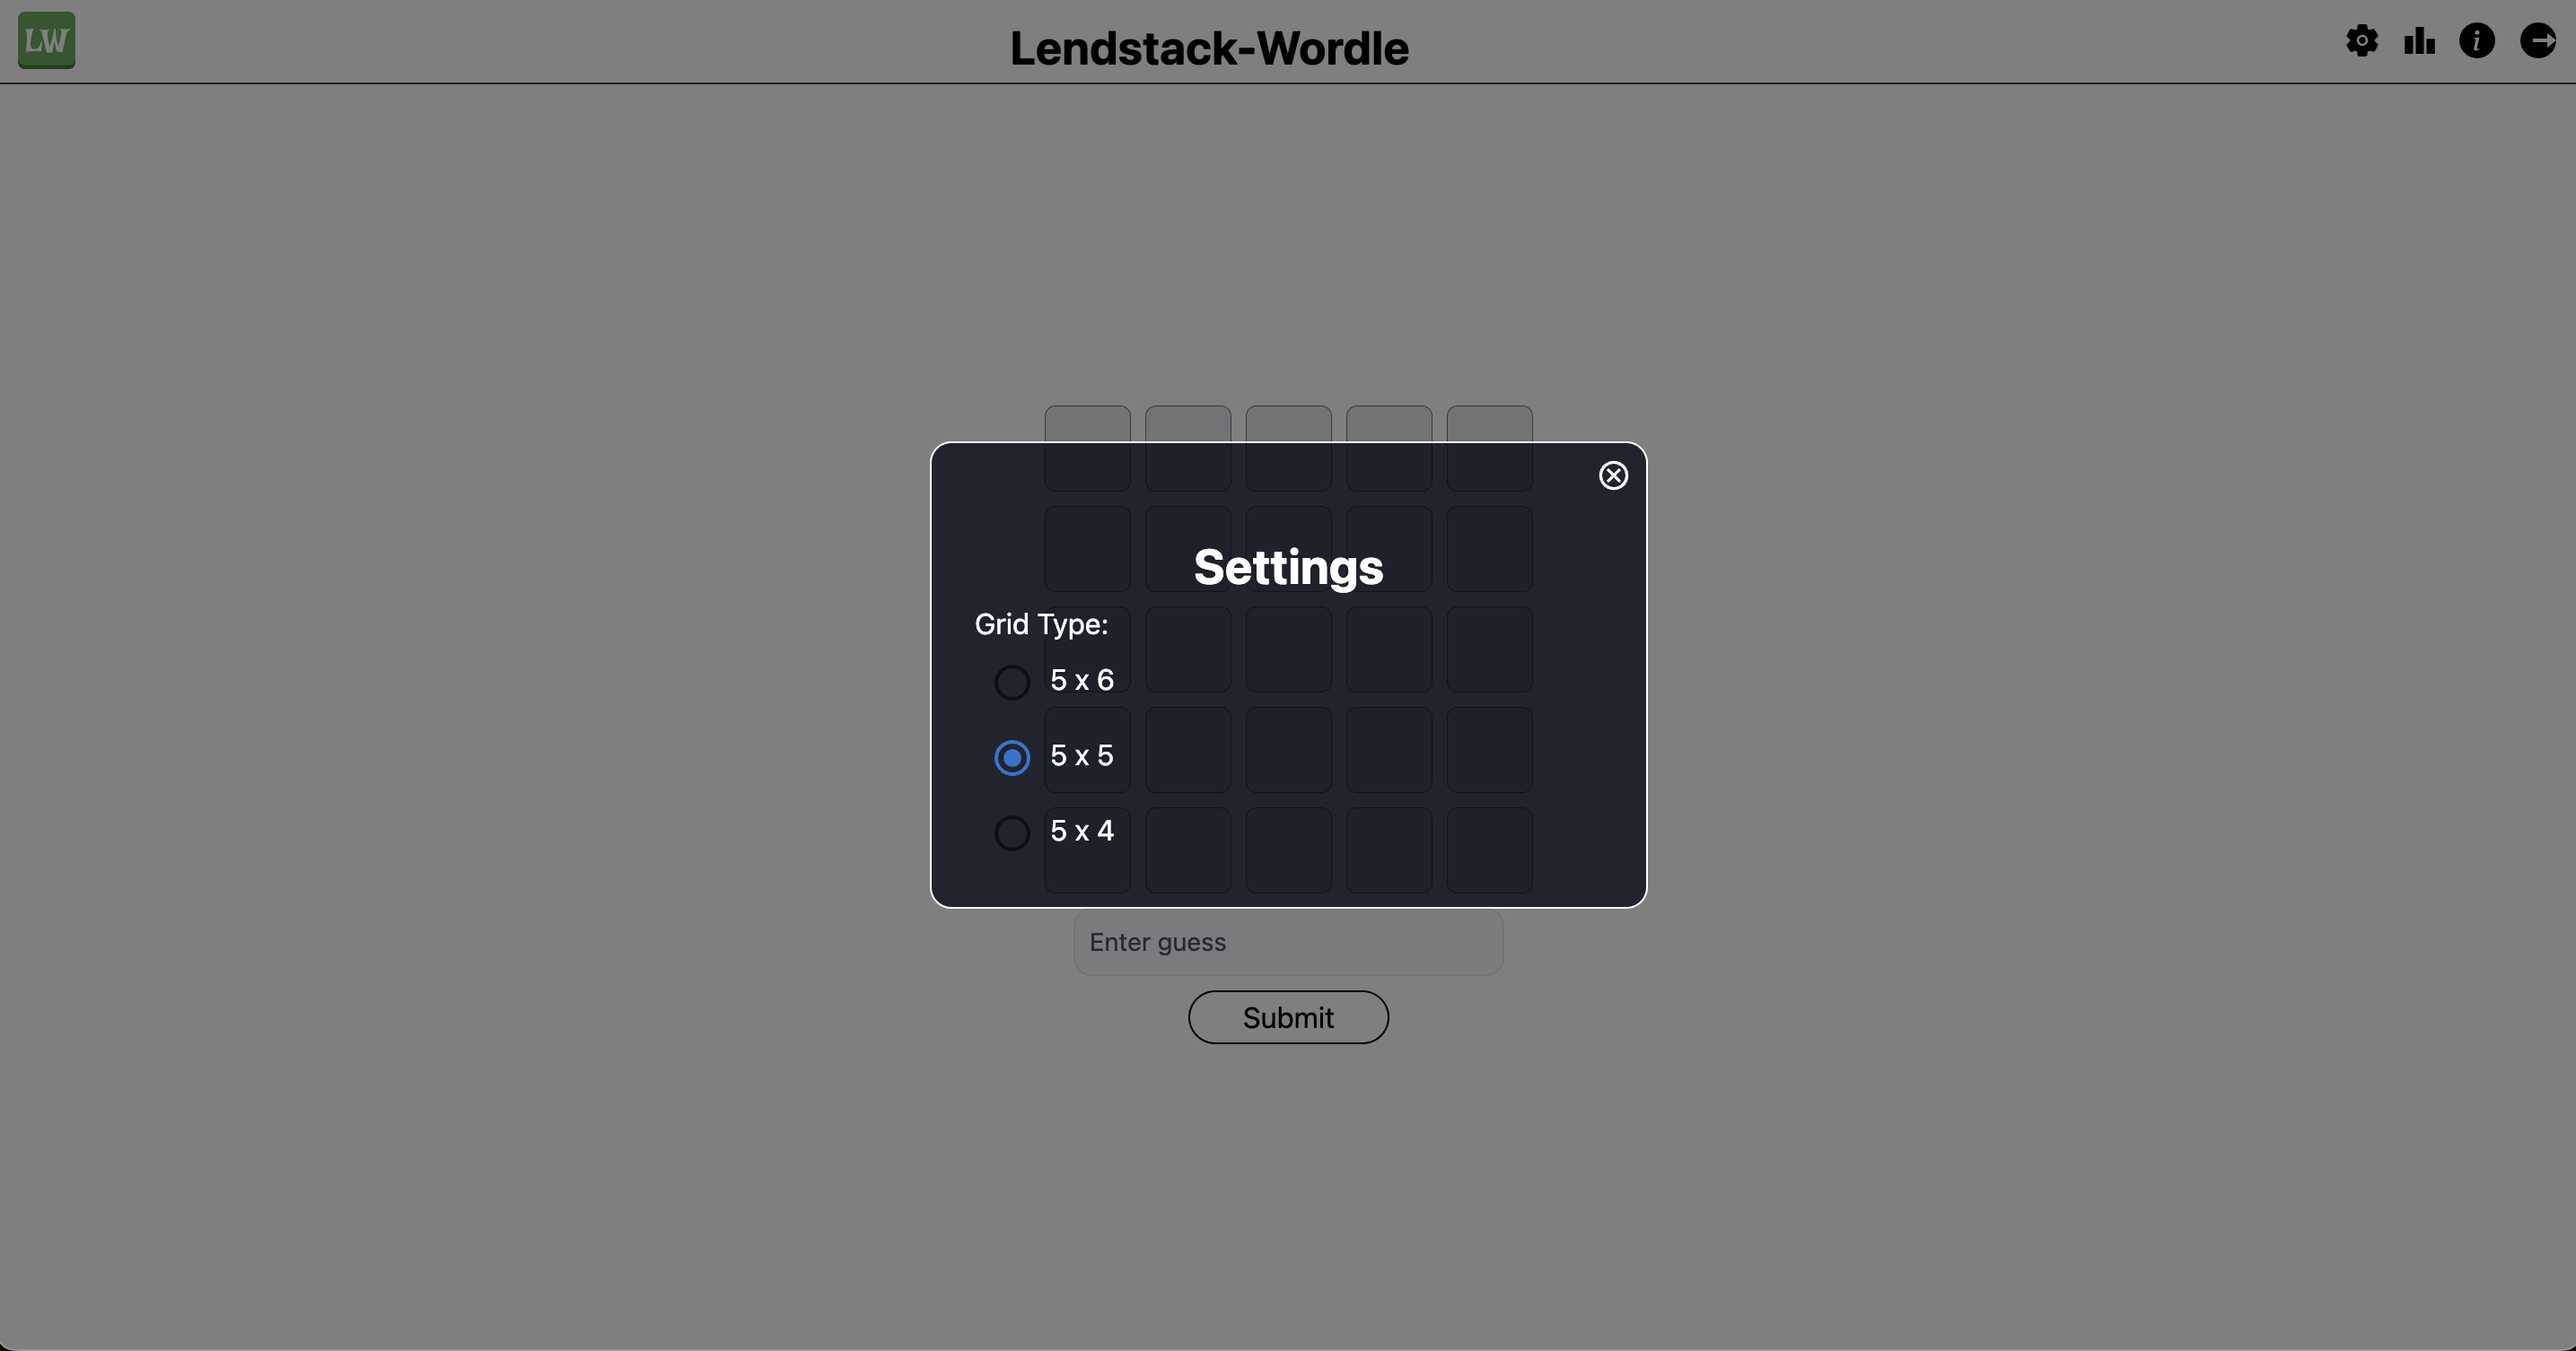
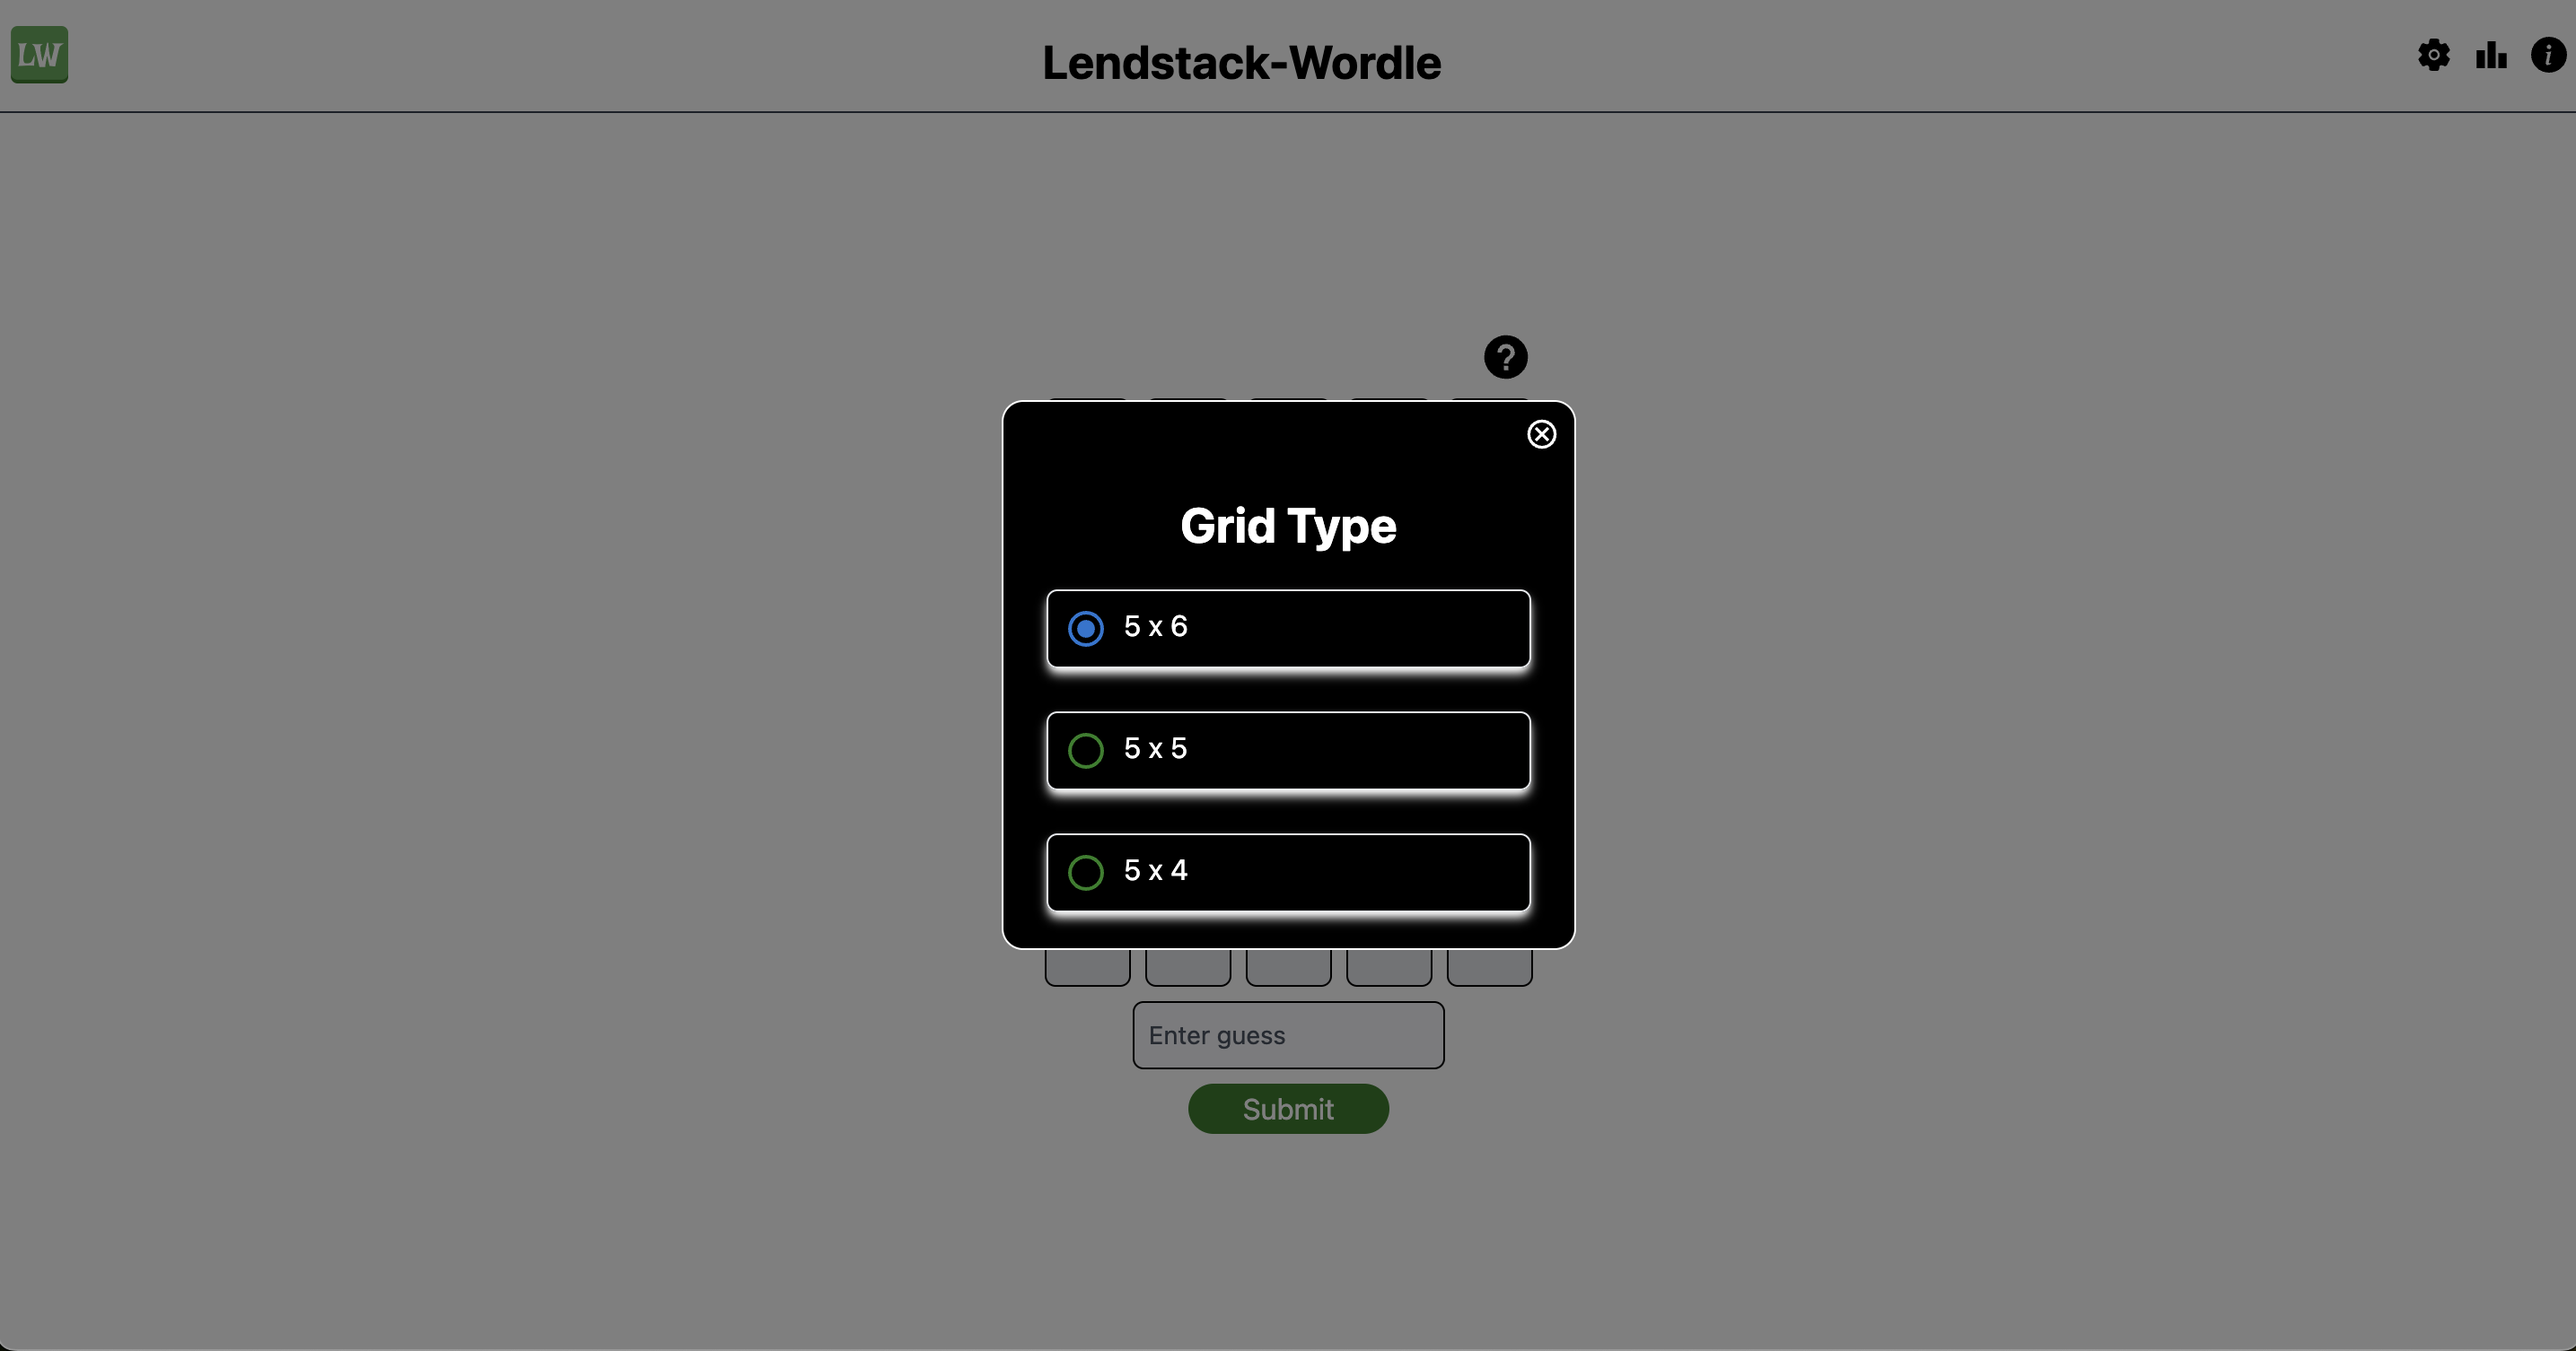
add hint alert + fix design ather alert

diff --git a/src/components/AlertSettings.tsx b/src/components/AlertSettings.tsx
@@ -13,15 +13,14 @@ export default function AlertSettings() {
   const [open, setOpen] = useState(false);
 
   const [selectedValue, setSelectedValue] = React.useState("6");
-  const handleChange = (event: React.ChangeEvent<HTMLInputElement>) => {
-    setSelectedValue(event.target.value);
+  const handleChange = (event: string) => {
+    setSelectedValue(event);
     setData((preData) => {
       let newData = { ...preData };
-      newData.gridType = Number(event.target.value);
+      newData.gridType = Number(event);
       newData.numAttempts = 0;
-      (newData.guesses = Array.from(
-        { length: Number(event.target.value) },
-        () => "*".repeat(lengthWord)
+      (newData.guesses = Array.from({ length: Number(event) }, () =>
+        "*".repeat(lengthWord)
       )),
         encryptData(newData);
       return newData;
@@ -50,7 +49,8 @@ export default function AlertSettings() {
         open={open}
         onClose={() => setOpen(false)}
       >
-        <div className="bg-[#010611be]  rounded-xl border-[1px] border-white  sm:w-[15rem]">
+        {/* 010611be */}
+        <div className="bg-[#000000]  rounded-xl border-[1px] border-white w-[20rem]  ">
           <div
             className="flex flex-row justify-end mt-2 mr-2 text-lg"
             onClick={() => {
@@ -66,30 +66,52 @@ export default function AlertSettings() {
           <DialogContent>
             <div className="flex flex-col text-white">
               <h1 className="text-[27px] flex items-center justify-center mb-0 font-bold ">
-                Settings
+                Grid Type
               </h1>
-              <div>
-                <p className="text-white"> Grid Type:</p>
-                <div>
+
+              <div className="flex flex-col gap-6 mt-4 ">
+                <div
+                  className="border rounded-md shadow-md shadow-white cursor-pointer"
+                  onClick={() => {
+                    handleChange("6");
+                  }}
+                >
                   <Radio
+                    sx={{
+                      color: "#227F22",
+                    }}
                     checked={selectedValue === "6"}
-                    onChange={handleChange}
                     value="6"
                   />
                   <label>{lengthWord} x 6</label>
                 </div>
-                <div>
+
+                <div
+                  className="border rounded-md shadow-md shadow-white "
+                  onClick={() => {
+                    handleChange("5");
+                  }}
+                >
                   <Radio
+                    sx={{
+                      color: "#227F22",
+                    }}
                     checked={selectedValue === "5"}
-                    onChange={handleChange}
                     value="5"
                   />
                   <label>{lengthWord} x 5</label>
                 </div>
-                <div>
+                <div
+                  className="border rounded-md shadow-md shadow-white"
+                  onClick={() => {
+                    handleChange("4");
+                  }}
+                >
                   <Radio
+                    sx={{
+                      color: "#227F22",
+                    }}
                     checked={selectedValue === "4"}
-                    onChange={handleChange}
                     value="4"
                   />
                   <label>{lengthWord} x 4</label>

diff --git a/src/components/AlertStatistcs.tsx b/src/components/AlertStatistcs.tsx
@@ -46,9 +46,9 @@ export default function AlertStatistcs() {
         }}
         open={open}
         className="bg-white"
-        // onClose={() => setOpen(false)}
+        // onClose={() => setOpen(false)}010611be
       >
-        <div className="bg-[#010611be] rounded-xl border-[1px] border-white flex flex-col">
+        <div className="bg-[#000000] rounded-xl border-[1px] border-white flex flex-col">
           <DialogContent>
             <div className="flex flex-col text-white ">
               <div className="text-[27px]">STATISTICS :</div>
@@ -64,8 +64,10 @@ export default function AlertStatistcs() {
                   <p className="text-[18px] font-extralight">Win%</p>
                 </div>
               </div>
-              <div className="text-[20px] flex justify-center items-start ">
-                {isWin ? "You Win" : "You Lose"}
+              <div className="text-[20px] flex justify-center items-start my-2 ">
+                <div className="border-x-2 px-3 rounded-xl ">
+                  {isWin ? "You Win" : "You Lose"}
+                </div>
               </div>
               <h1 className="text-[17px]">Guess Distribution</h1>
               {data.guesses.map((attempt, index) => {
@@ -85,9 +87,10 @@ export default function AlertStatistcs() {
               })}
             </div>
           </DialogContent>
-          <div className="flex  justify-evenly mb-2">
+          <div className="flex  justify-evenly mt-2 mb-4">
             <button
-              className="px-3 py-1  bg-green-500 hover:bg-green-600 text-white rounded-2xl text-center"
+              className="px-3 py-1  bg-green-500 hover:bg-green-600 text-black rounded-2xl text-center
+              shadow-md shadow-white"
               onClick={async () => {
                 setOpen(false);
                 const tmp = await WordGenerator(lengthWord);
@@ -113,7 +116,8 @@ export default function AlertStatistcs() {
             </button>
             {!isWin && (
               <button
-                className="px-6 py-1  bg-blue-500 hover:bg-blue-600 text-white rounded-2xl text-center"
+                className="px-6 py-1  bg-blue-500 hover:bg-blue-600 text-black rounded-2xl text-center
+                shadow-md shadow-white"
                 onClick={() => {
                   setOpen(false);
                   setData((preData) => {

diff --git a/src/components/AlertHelp.tsx b/src/components/AlertHelp.tsx
@@ -13,10 +13,9 @@ export default function AlertHelp() {
   const { data } = useGlobalContext();
 
   const [open, setOpen] = useState(false);
-  let keysData: { letter: string; color: string }[] = GetKeysData(
-    "HAPPY",
-    "ALPHA"
-  );
+  // function maskWord(word: string, charToReveal: string): string {
+  //   return ;
+  // }
   return (
     <div className="w-full flex justify-end">
       <IoMdHelpCircle
@@ -43,9 +42,15 @@ export default function AlertHelp() {
               <h1 className="text-[27px] flex items-center justify-center mb-6 font-bold ">
                 Here's hint
               </h1>
-              <div className="border-x border-b p-2 rounded-3xl">
-                {data.definition}
-              </div>
+              <>
+                <div className="border-x border-b p-2 rounded-3xl text-center">
+                  {data.definition && data.definition !== ""
+                    ? data.definition
+                    : [...data.randomWord]
+                        .map((c, index) => (index == 2 ? c : "*"))
+                        .join("")}
+                </div>
+              </>
               <div className="mt-3 flex justify-center">
                 <button
                   className={`w-[7rem]  py-0.5 rounded-2xl bg-[#227F22] text-white  border shadow-gray-200 shadow-md`}

diff --git a/src/components/AlertTuto.tsx b/src/components/AlertTuto.tsx
@@ -24,9 +24,9 @@ export default function AlertTutorial() {
         }}
         open={openAlertTuto}
         onClose={() => setOpenAlertTuto(false)}
-        // className="bg-white"
+        // className="bg-white"010611be
       >
-        <div className="bg-[#010611be] rounded-xl border-[1px] border-white mijn-w-[15rem] max-w-[25rem]">
+        <div className="bg-[#000000] rounded-xl border-[1px] border-white mijn-w-[15rem] max-w-[25rem]">
           <div
             className="flex flex-row justify-end mt-2 mr-2 text-lg"
             onClick={() => {
@@ -41,9 +41,9 @@ export default function AlertTutorial() {
 
           <DialogContent>
             <div className="flex flex-col text-white">
-              <h1 className="text-[27px] flex items-center justify-center mb-6 font-bold ">
-                How To Play
-              </h1>
+              <div className="text-[27px] flex items-center justify-center mb-6 font-bold">
+                <h1 className="border-x-2 px-3 rounded-xl">How To Play</h1>
+              </div>
 
               <p className="text-[17px] ">
                 {` Guess the Wordle in ${data.guesses.length} tries or less.`}

diff --git a/src/context/store.tsx b/src/context/store.tsx
@@ -73,7 +73,6 @@ export const GlobalContextProvider = ({
       if (storedGameData) {
         try {
           isValide = await ValideDataGame(data, storedGameData, lengthWord);
-          console.log(isValide);
         } catch (error) {}
       }
       if (isValide === null) {

diff --git a/src/utils/supabase.ts b/src/utils/supabase.ts
@@ -32,7 +32,6 @@ export async function createScore() {
       .select("*")
       .eq("user_id", userId);
     if (error && error!.code !== "PGRST116") {
-      console.error("Error checking for existing record:", error);
       return;
     }
 

diff --git a/README.md b/README.md
@@ -92,6 +92,9 @@ This Wordle game project includes several key features:
 - Game Page
   ![game](https://github.com/ahammamlho/Lendstack-Wordle/blob/worlde-ahammam/screen-shot/gamePage.png?raw=true)
 
+- Alert Hint
+  ![game](https://github.com/ahammamlho/Lendstack-Wordle/blob/worlde-ahammam/screen-shot/AlertHint.png?raw=true)
+
 - Leaderboard Page
   ![Leaderboard](https://github.com/ahammamlho/Lendstack-Wordle/blob/worlde-ahammam/screen-shot/leaderboardPage.png?raw=true)
 
